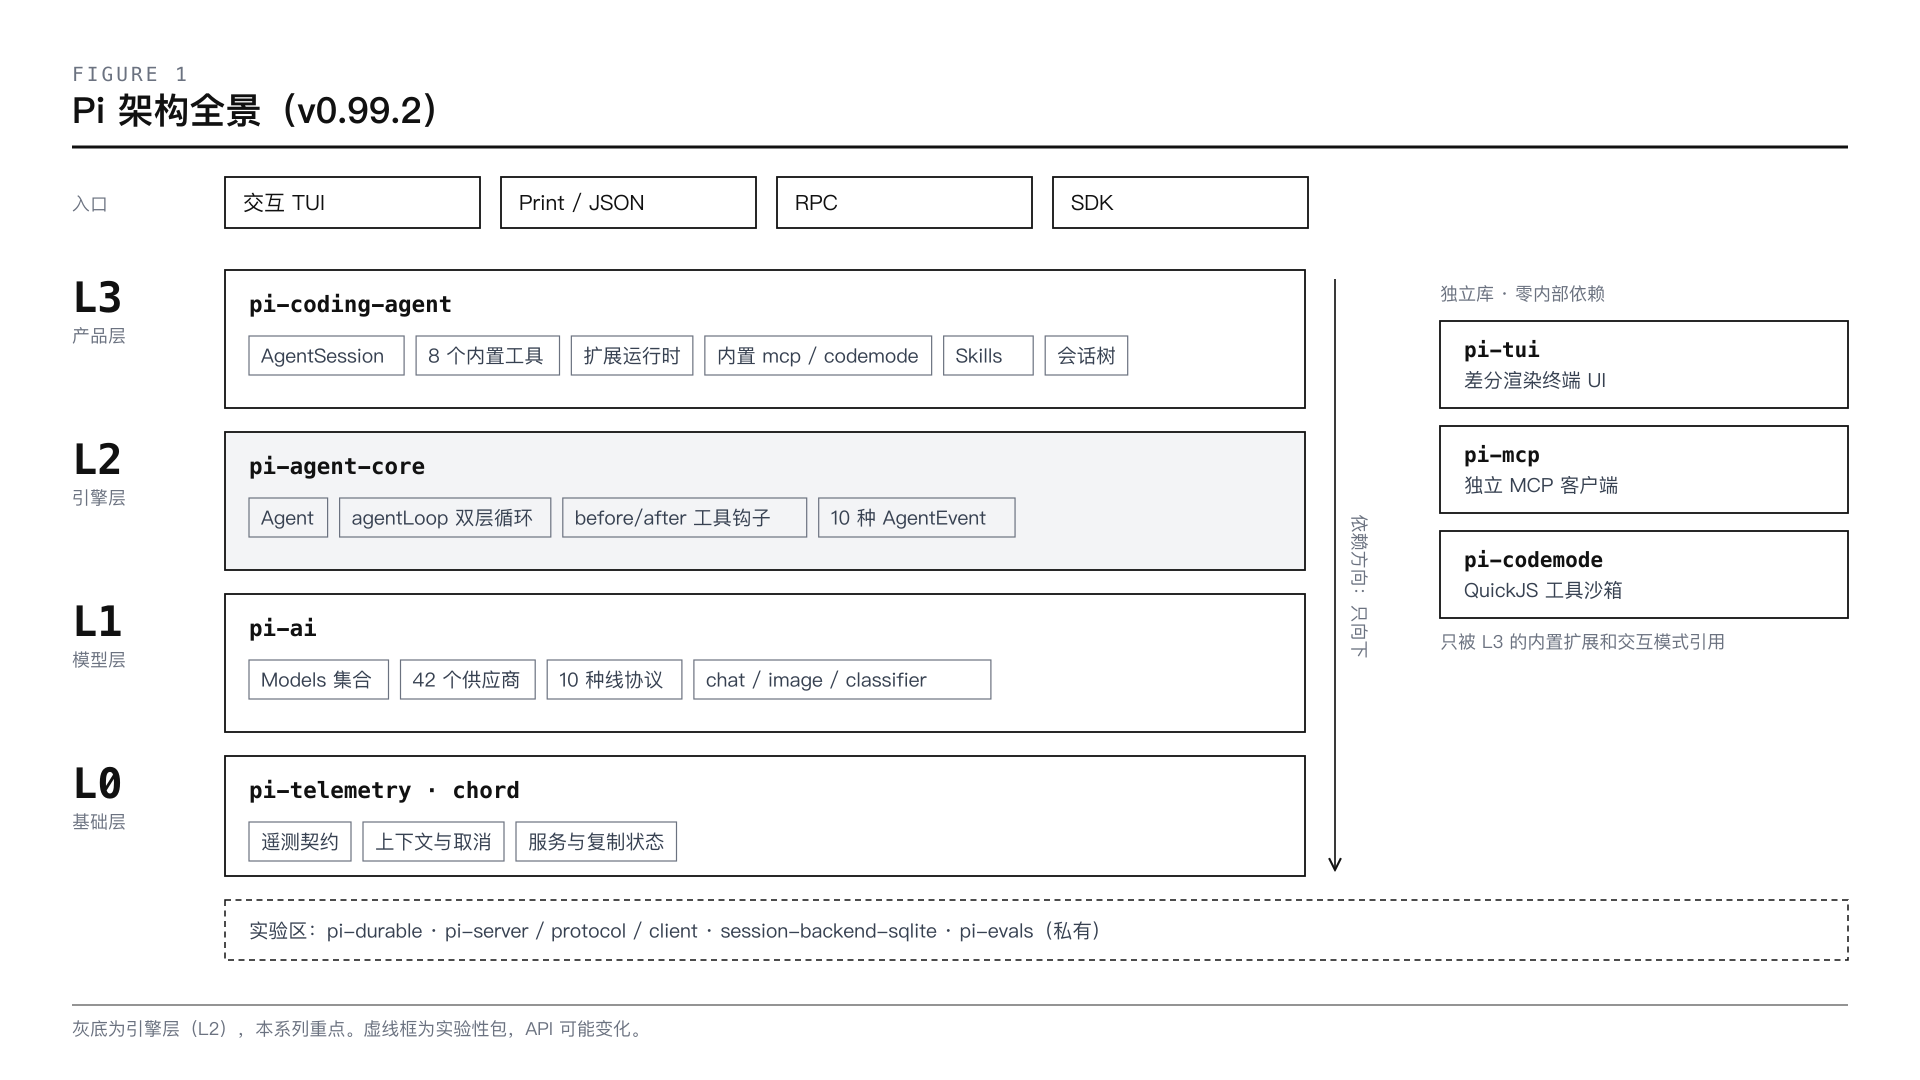
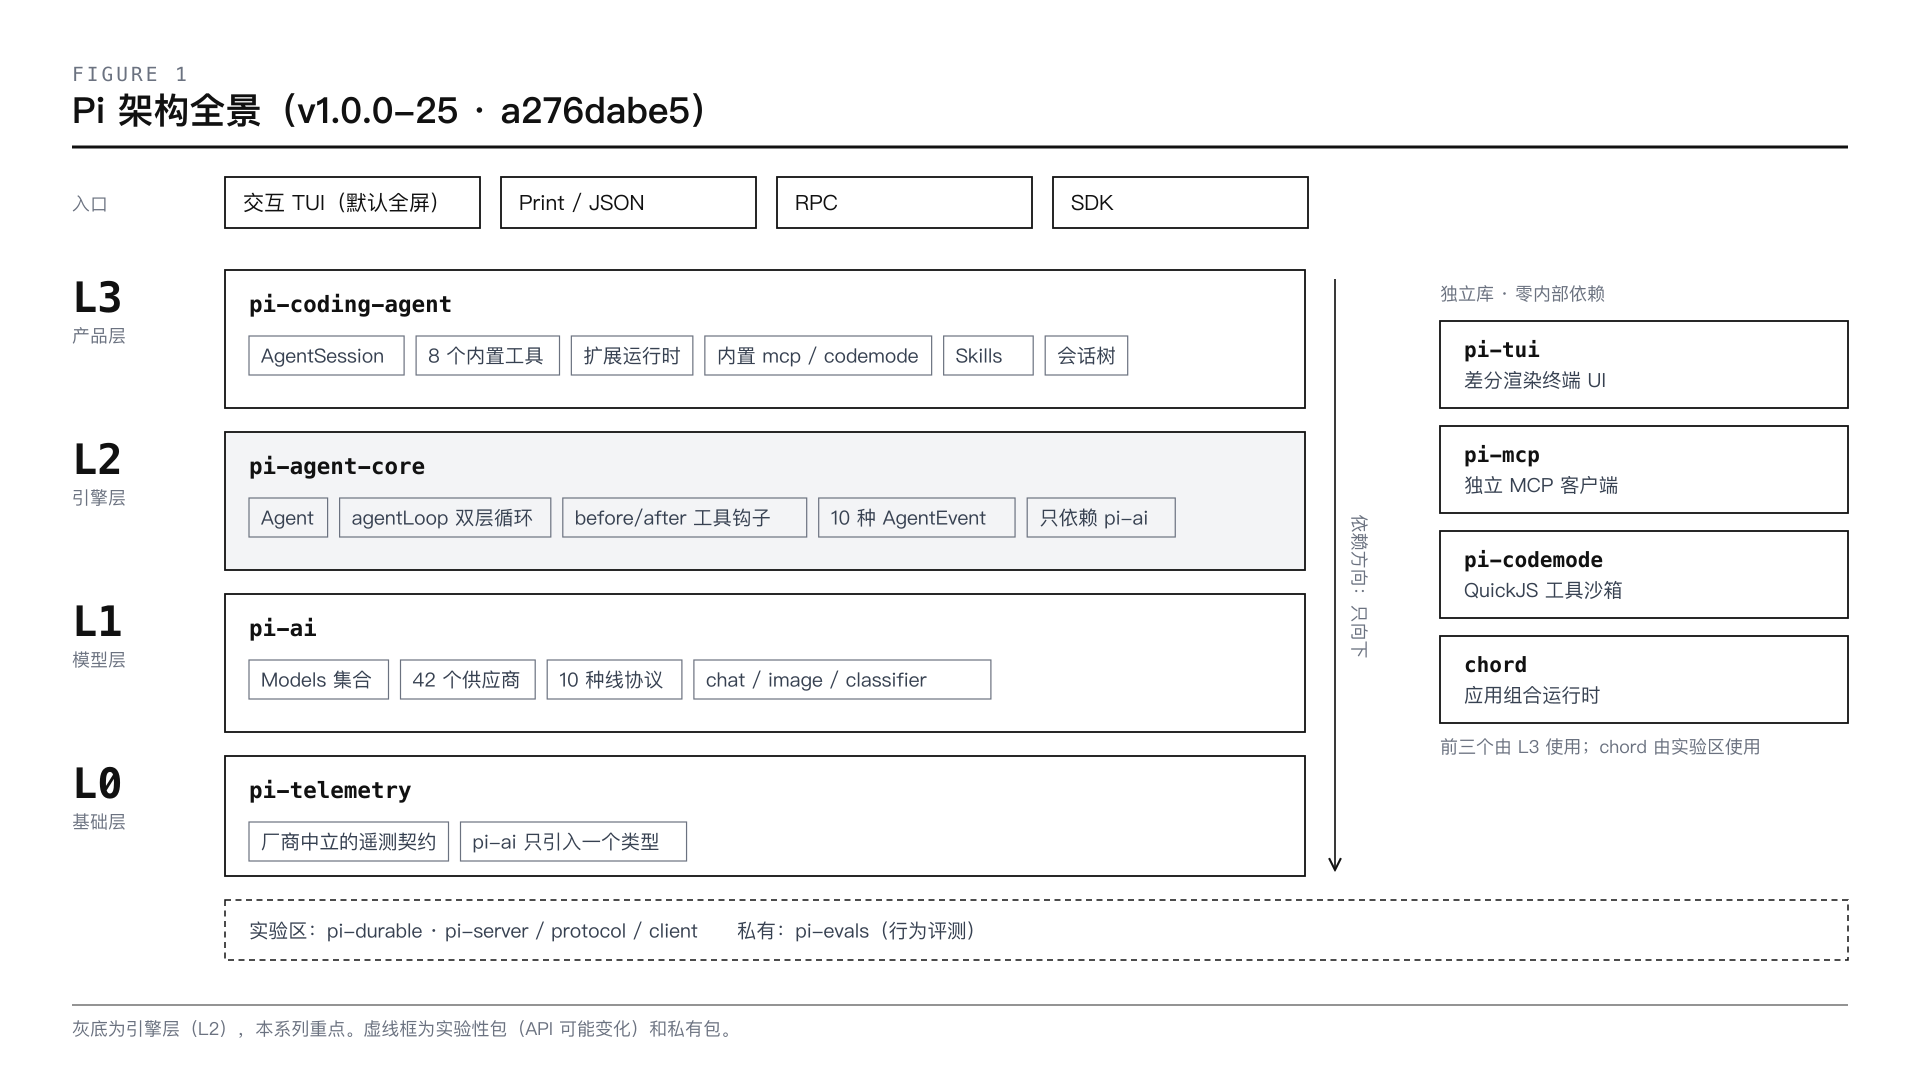
fix: Harness/Pi 第一章按 a276dabe5 重新核对 (#18)

diff --git a/content/harness/pi/02-three-layers.md b/content/harness/pi/02-three-layers.md
@@ -286,7 +286,7 @@ this._emit(event.type === "agent_end" ? { ...event, willRetry: this._willRetryAf
 1. **`Agent`（当前发布的引擎）**：agent-core 的 6 个文件，约 2.5k 行，就是前四节讲的内容。
 2. **`pi-durable`（持久化引擎，规范里叫 Pico5）**：独立的包，约 17.7k 行，已经发布到 npm，README 开头标着 "Experimental"（API 会在版本之间不经通知地变化）。README 是这样介绍它的："Conversations, model turns, tool calls, and your own state are committed to storage before anything is shown." 也就是说，消息、模型输出、工具调用和你的状态，都先写入存储再展示。进程中途崩溃，重新打开就能接着跑。
 
-两套引擎有一个共同点：**都只往下依赖 pi-ai，都不依赖 coding-agent**。三层结构对它们同样成立，在变的只是 L2 的实现。`pi-durable` 也不依赖 agent-core，内部依赖只有 pi-ai 和 `chord`（第一章提到的基础库）。
+两套引擎有一个共同点：**都只往下依赖 pi-ai，都不依赖 coding-agent**。三层结构对它们同样成立，在变的只是 L2 的实现。`pi-durable` 也不依赖 agent-core，内部依赖只有 pi-ai 和 `chord`（第一章实验区里的组合运行时）。
 
 从 2026-08-01 到 2026-10-03 的提交可以看出开发重心在哪里：`agent-loop.ts` 只有 9 次提交，`pi-durable` 从 2026-09-18 创建以来有 77 次（含 2 次发版提交）。coding-agent 的实验目录里已经有三处在用它：
 
